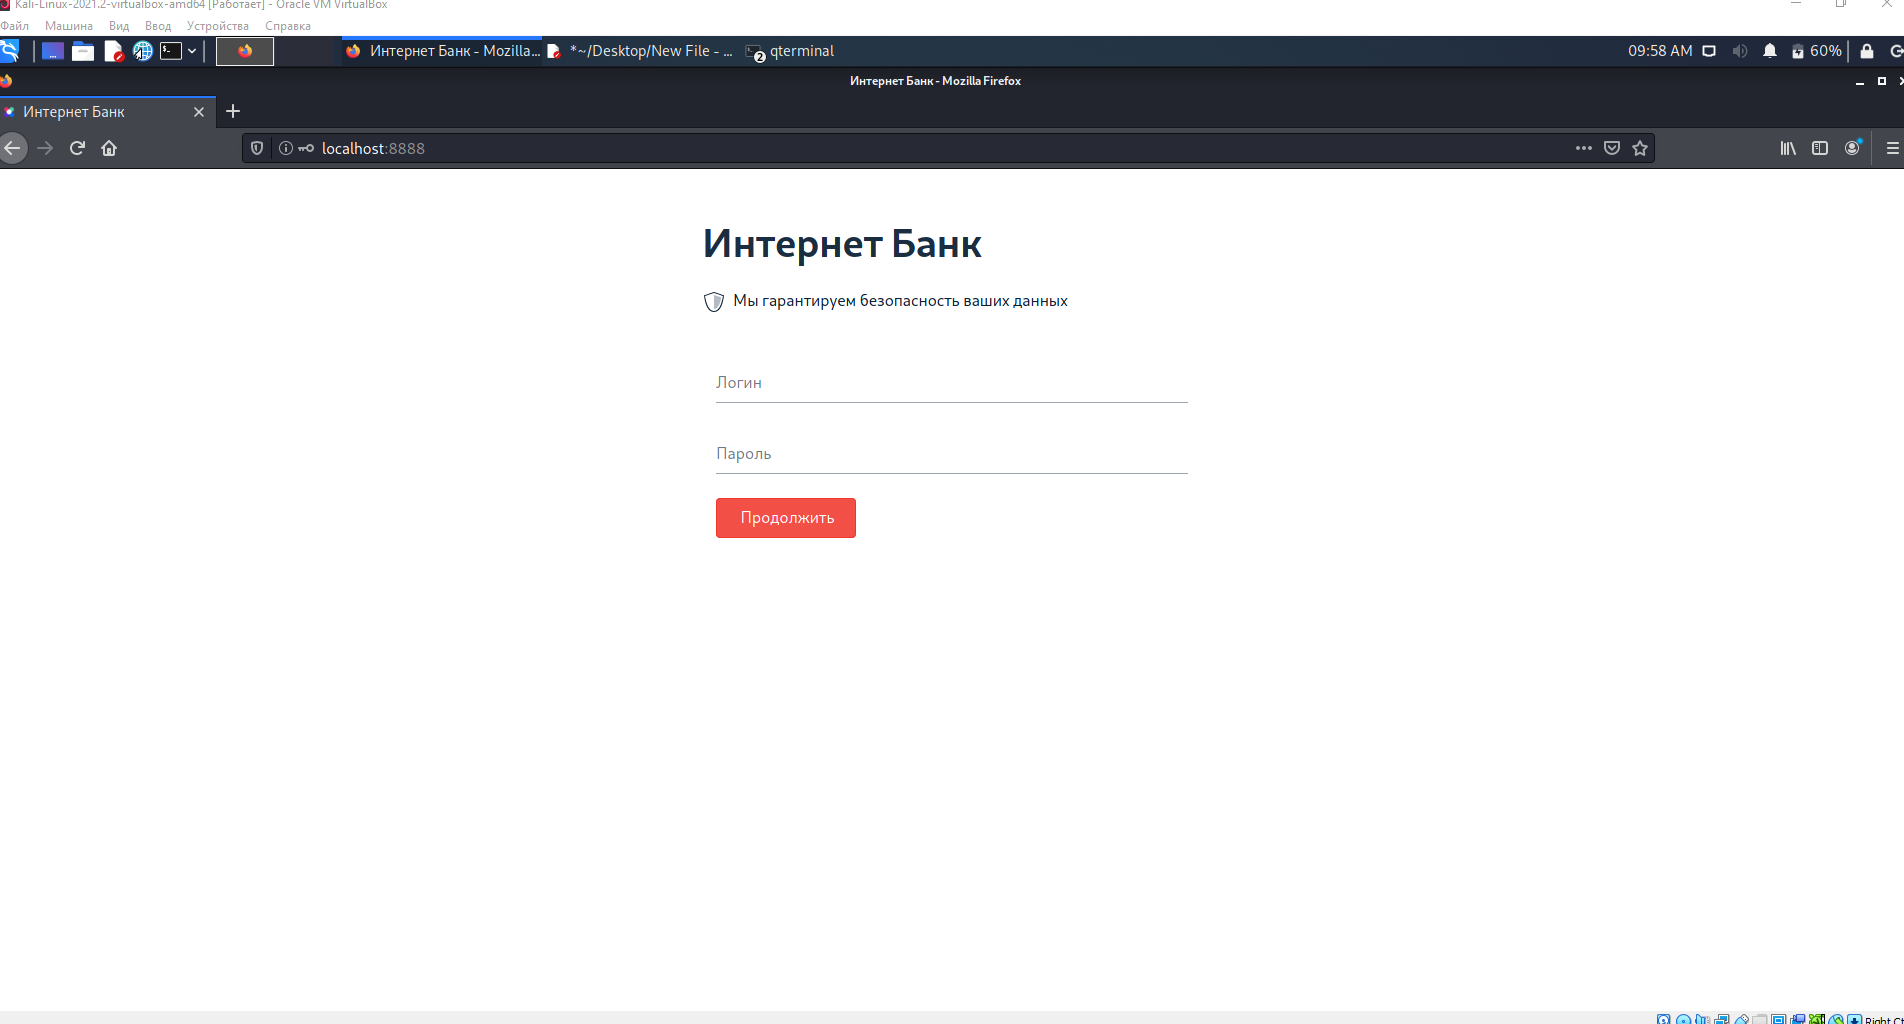
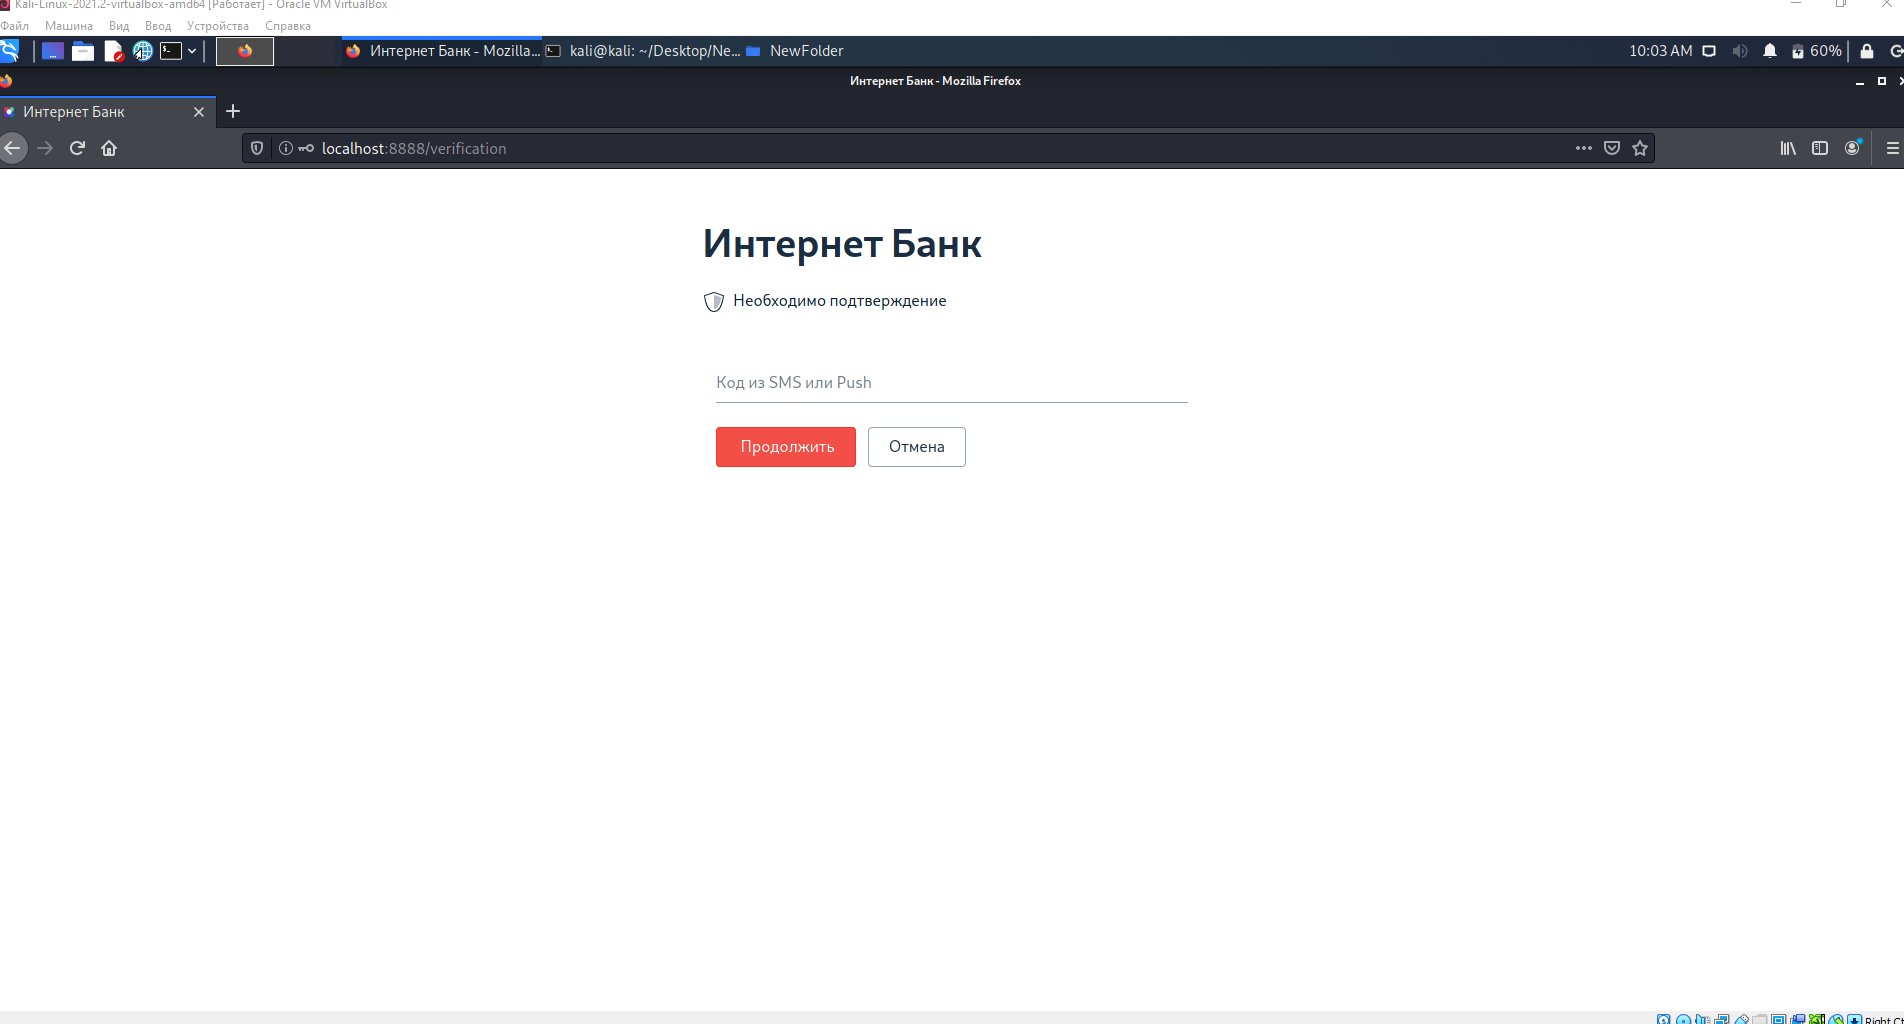
corrigir

diff --git a/README.md b/README.md
@@ -1,3 +1,5 @@
 В первом задании в поле логина ввел такой запрос: sasha' or 1=1 -- --
 
 Система пропустила
+
+![](pic/um.png)
